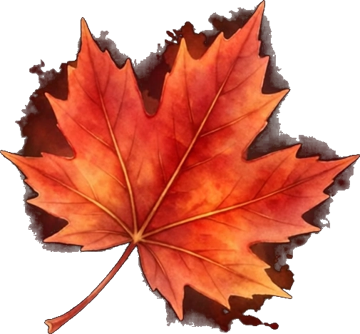
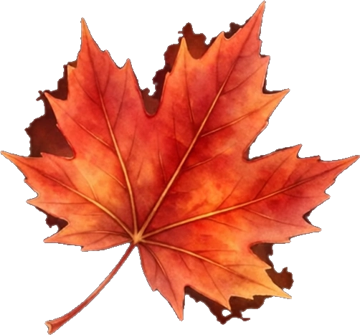
Journey2: remove ambient bubbles (only the poppable bubble stays); leaves re-cut with fully transparent background

diff --git a/progress-copy/journey2.html b/progress-copy/journey2.html
@@ -18,15 +18,13 @@
   #pop .ring { position:absolute; inset:-13%; border-radius:50%; border:2px solid rgba(255,214,90,.75); animation:ringp 1.8s ease-out infinite; pointer-events:none; }
   @keyframes ringp { 0% { transform:scale(.82); opacity:.95; } 100% { transform:scale(1.22); opacity:0; } }
   .burst-p { position:absolute; z-index:7; pointer-events:none; }
-  #leaves, #ambubbles { position:absolute; inset:0; overflow:hidden; pointer-events:none; }
-  #leaves { z-index:4; } #ambubbles { z-index:5; }
+  #leaves { position:absolute; inset:0; overflow:hidden; pointer-events:none; }
+  #leaves { z-index:4; }
   .leaf-outer { position:absolute; top:-12%; animation-name:fall; animation-timing-function:linear; animation-iteration-count:infinite; }
   .leaf-inner { display:block; animation-name:sway; animation-timing-function:ease-in-out; animation-iteration-count:infinite; animation-direction:alternate; }
   @keyframes fall { to { transform:translateY(125vh); } }
   @keyframes sway { from { transform:translateX(-16px) rotate(-38deg); } to { transform:translateX(16px) rotate(42deg); } }
-  .amb { position:absolute; animation-name:rise; animation-timing-function:linear; animation-iteration-count:infinite; opacity:.7; }
   @keyframes rise { from { transform:translateY(112%); } to { transform:translateY(-30%); } }
-  .amb img { display:block; width:100%; animation:sway2 5s ease-in-out infinite alternate; }
   @keyframes sway2 { from { transform:translateX(-7px); } to { transform:translateX(7px); } }
   .topbar { position:absolute; top:0; left:0; right:0; z-index:10; display:flex; justify-content:space-between; align-items:flex-start; padding:14px; pointer-events:none; }
   .title { color:#fff; font-weight:700; font-size:17px; text-shadow:0 1px 8px rgba(0,0,0,.55); }
